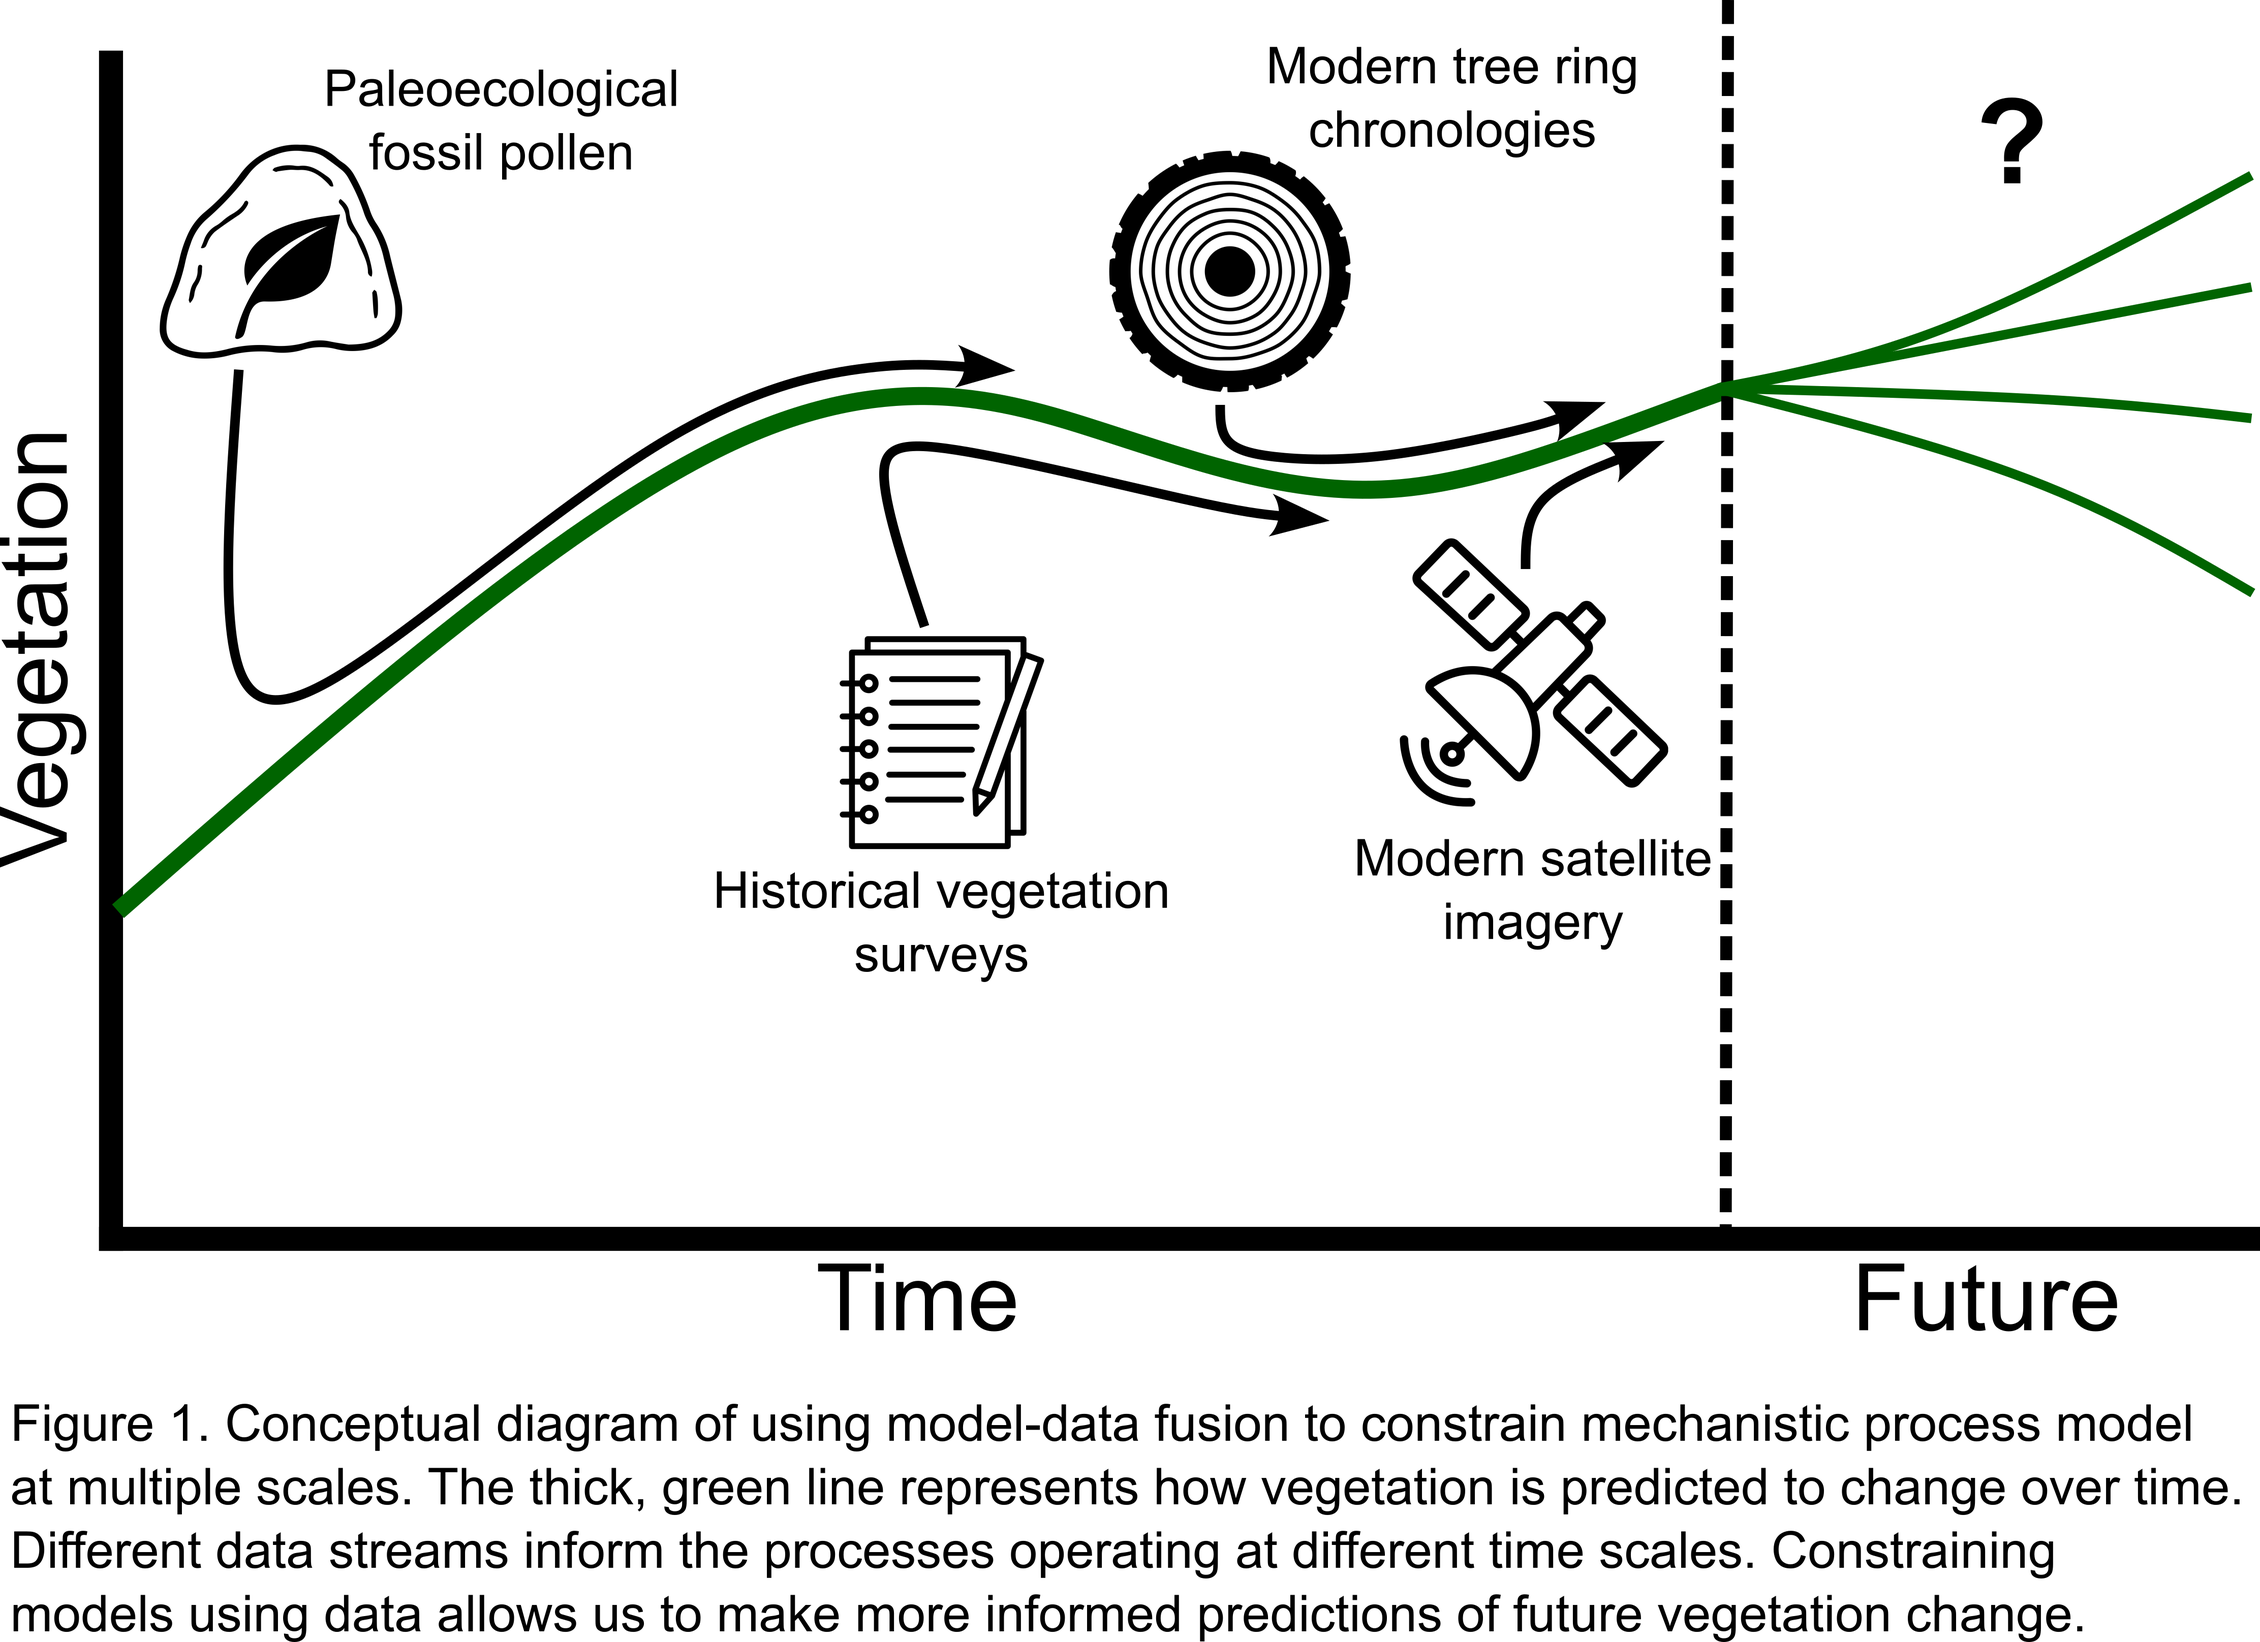
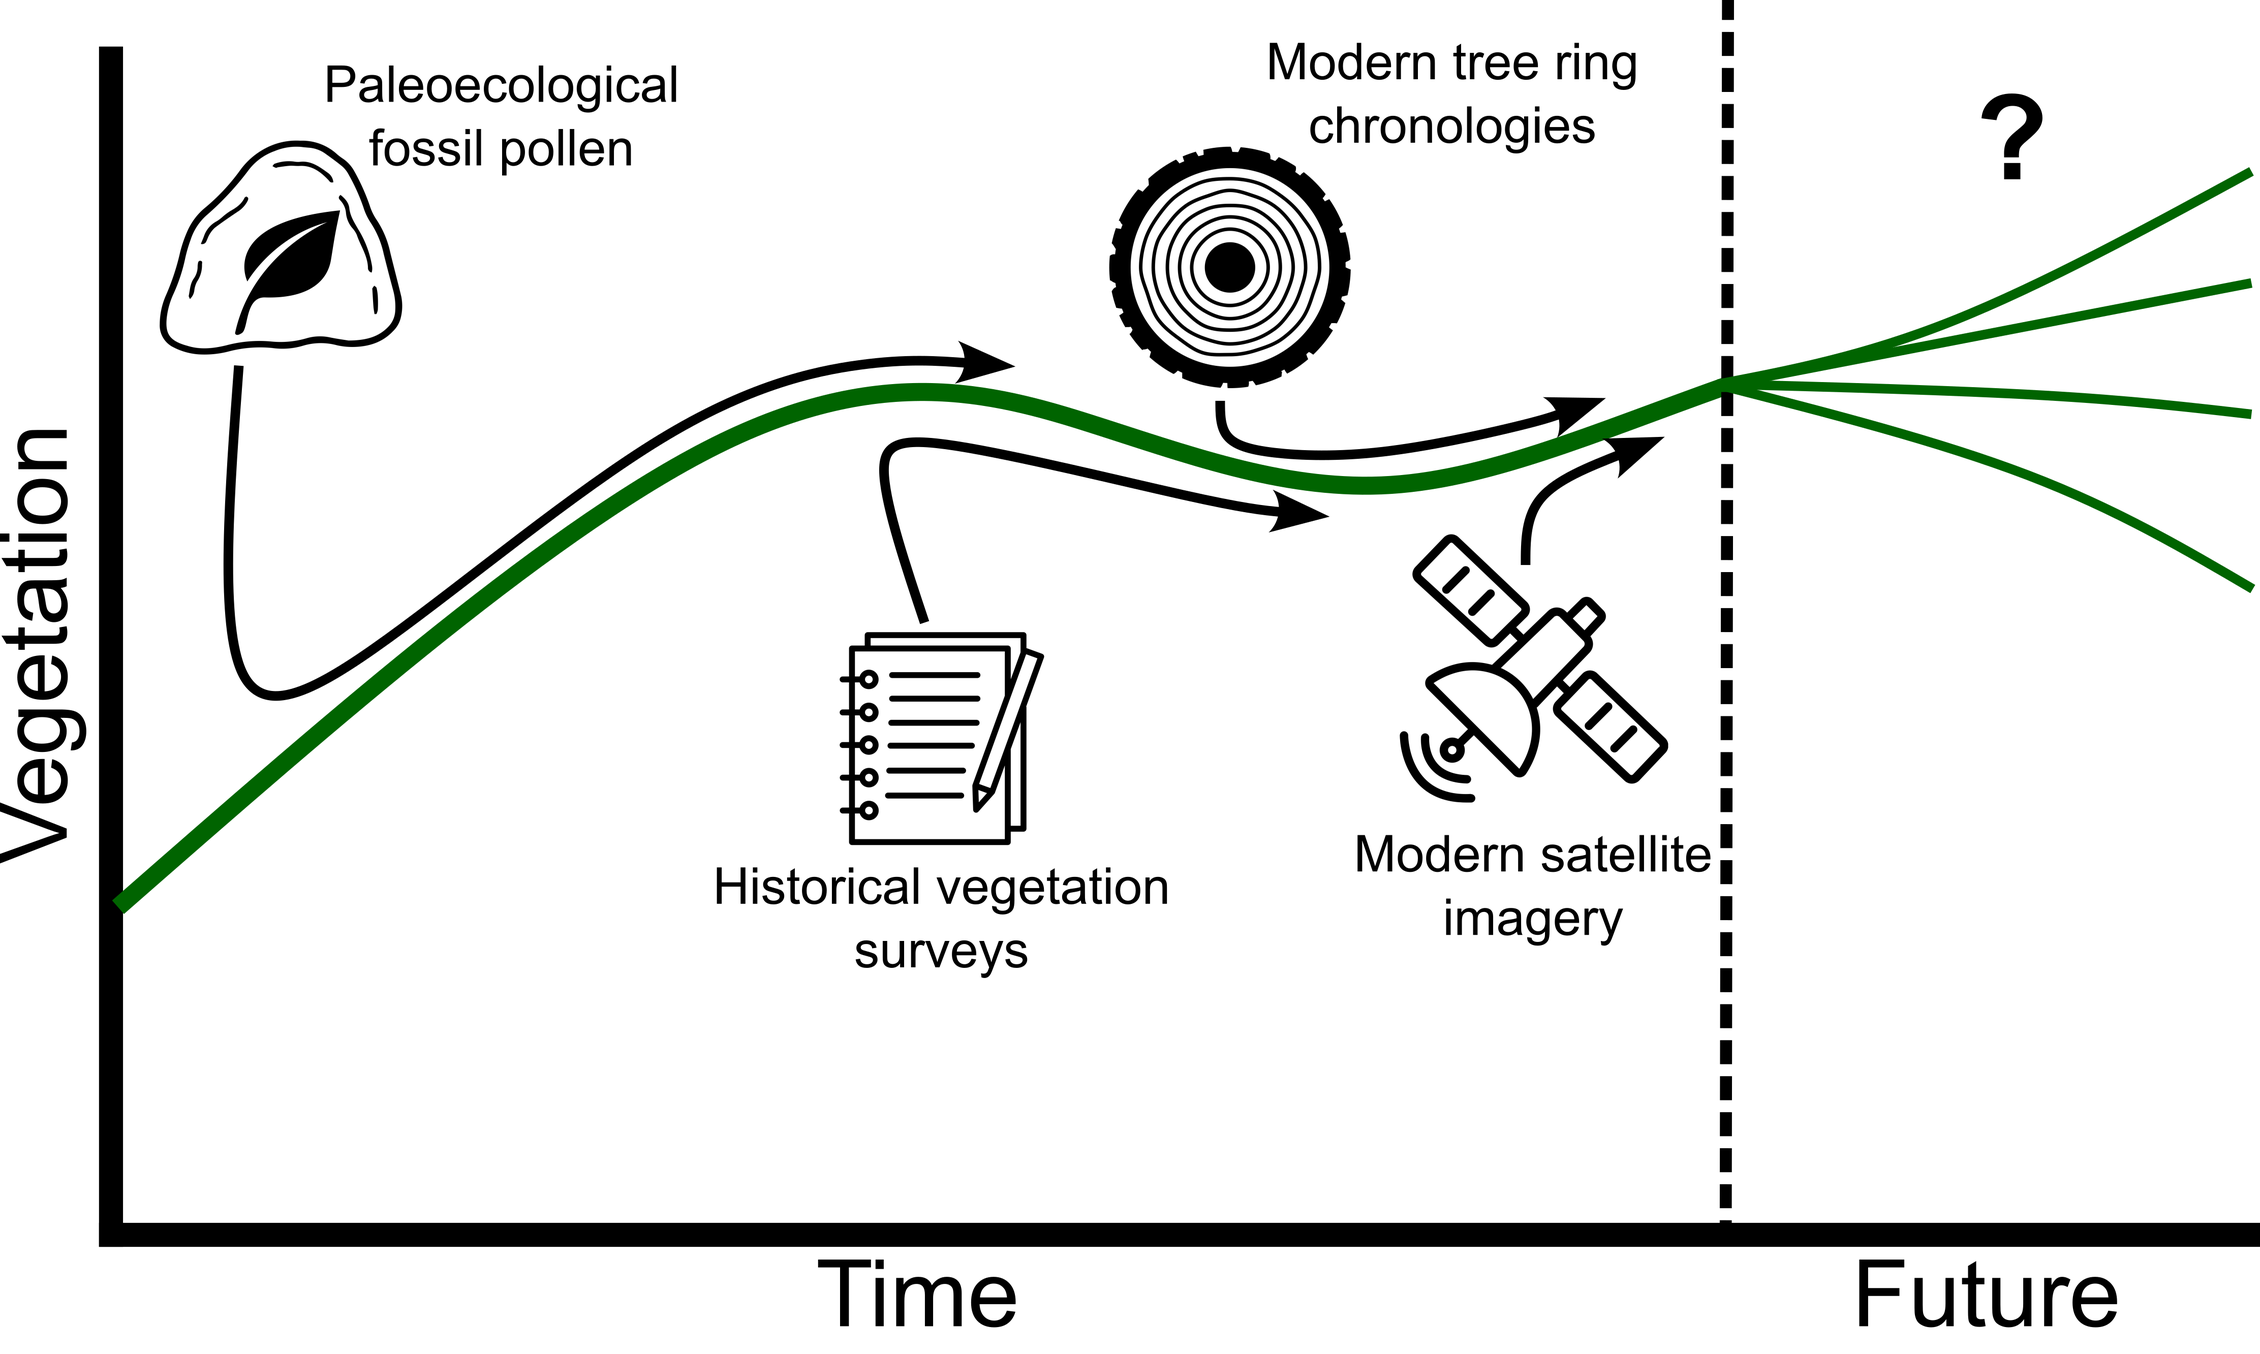
Formatting

diff --git a/_pages/research.md b/_pages/research.md
@@ -10,7 +10,7 @@ An overarching goal of my research is improving predictions of the ecological co
 I use a variety of modeling tools and data sources across scales to inform predictions of terrestrial vegetation change. Below, I describe my current research efforts, my future research directions synthesizing my previous work, and previous research projects.
 
 <figure style="text-align:center;">
-  <img src="/images/across_scales_applications.png" alt="Figure 1">
+  <img src="/images/across_scales_applications.png" alt="Figure 1" width:80%>
   <figcaption>
     Using models and data at multiple scales to constrain long-term predictions of terrestrial vegetation dynamics. The thick, green line represents how vegetation is predicted to change over time. Different data streams inform the processes operating at different time scales.
   </figcaption>
